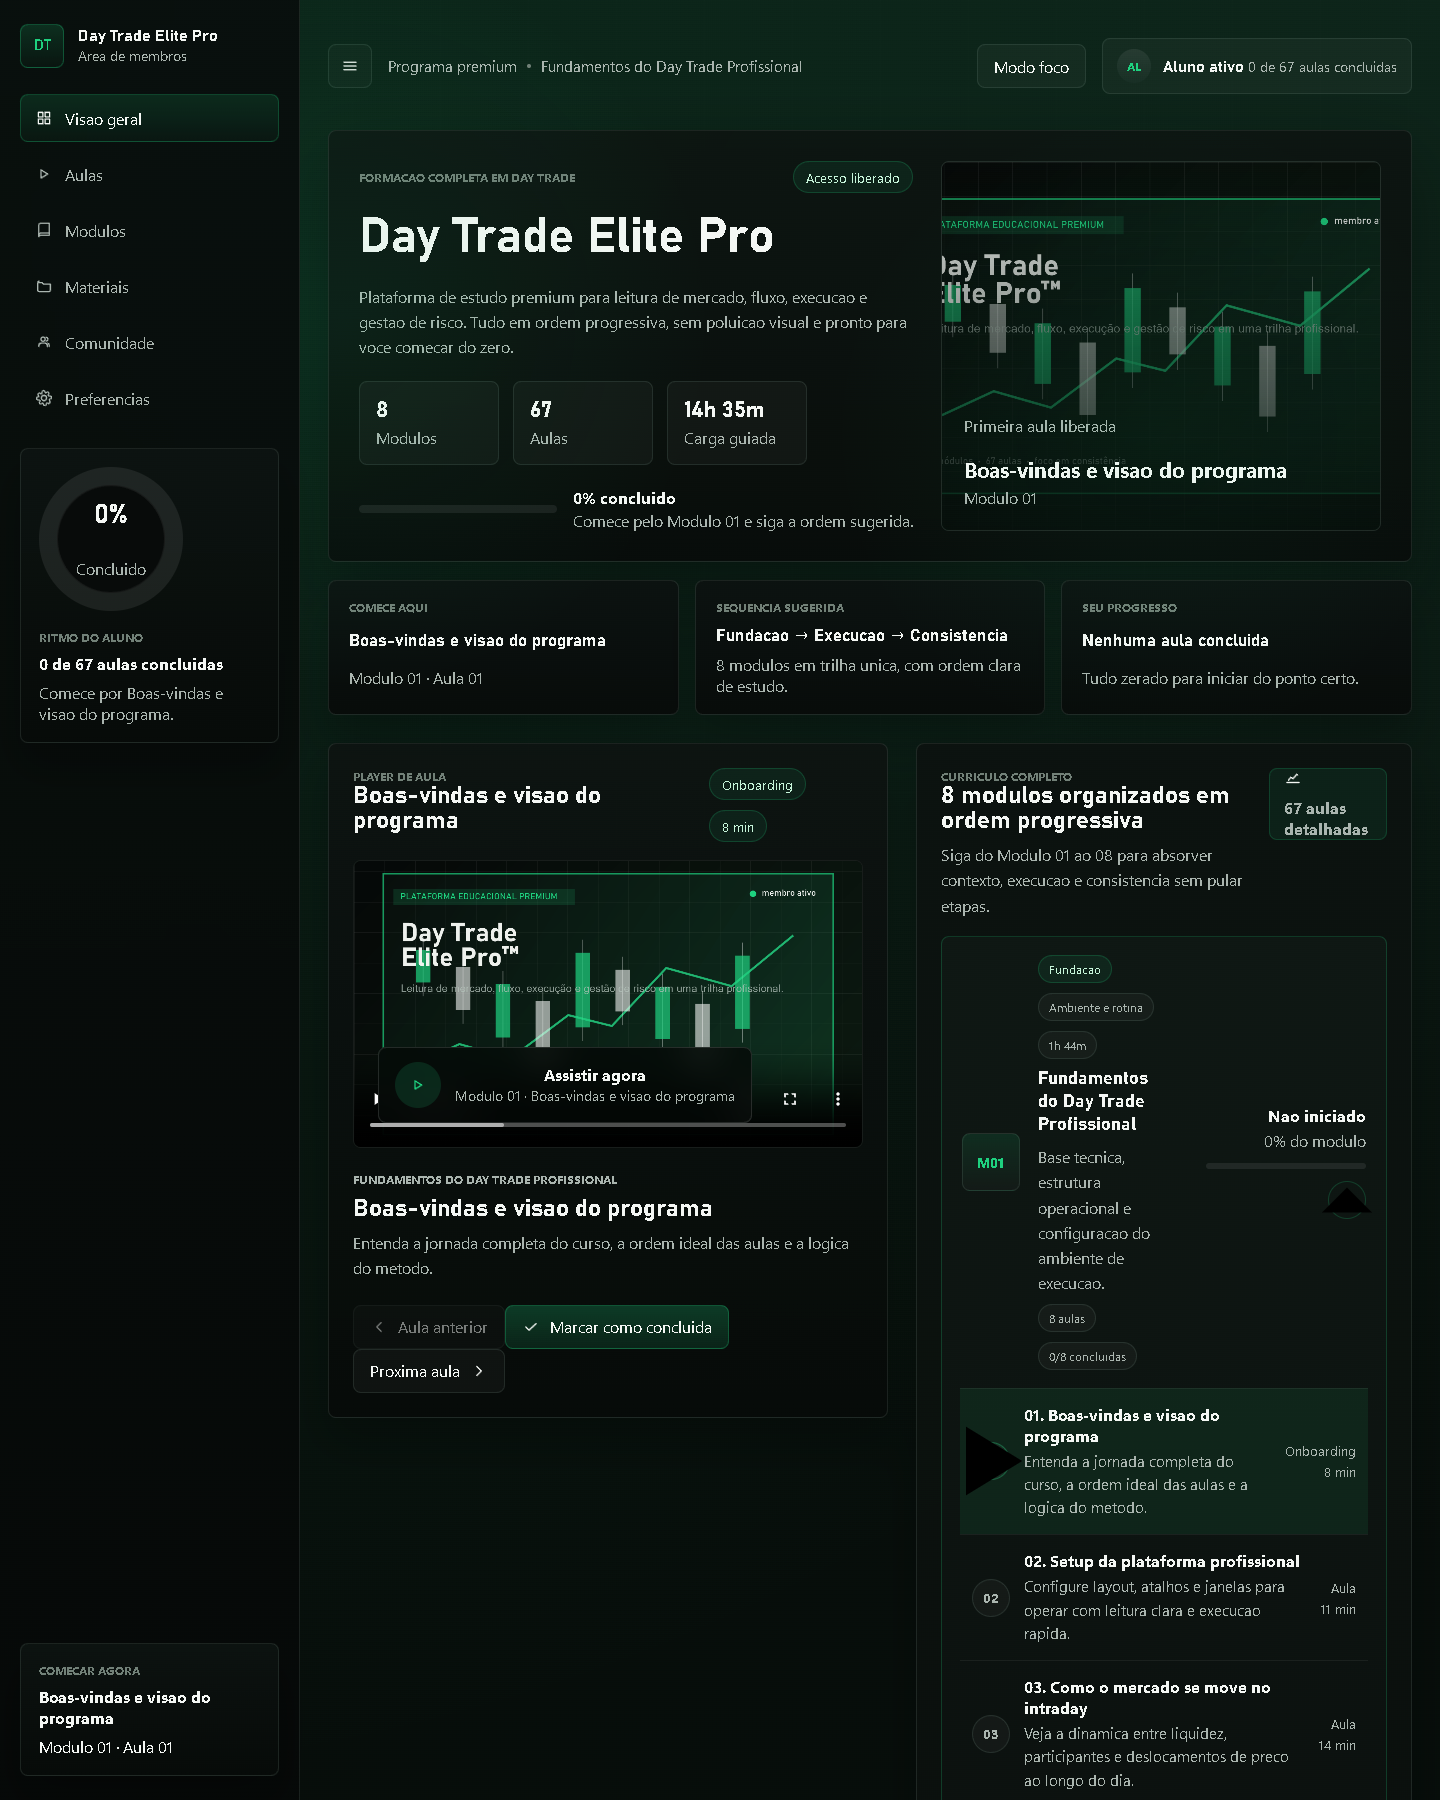
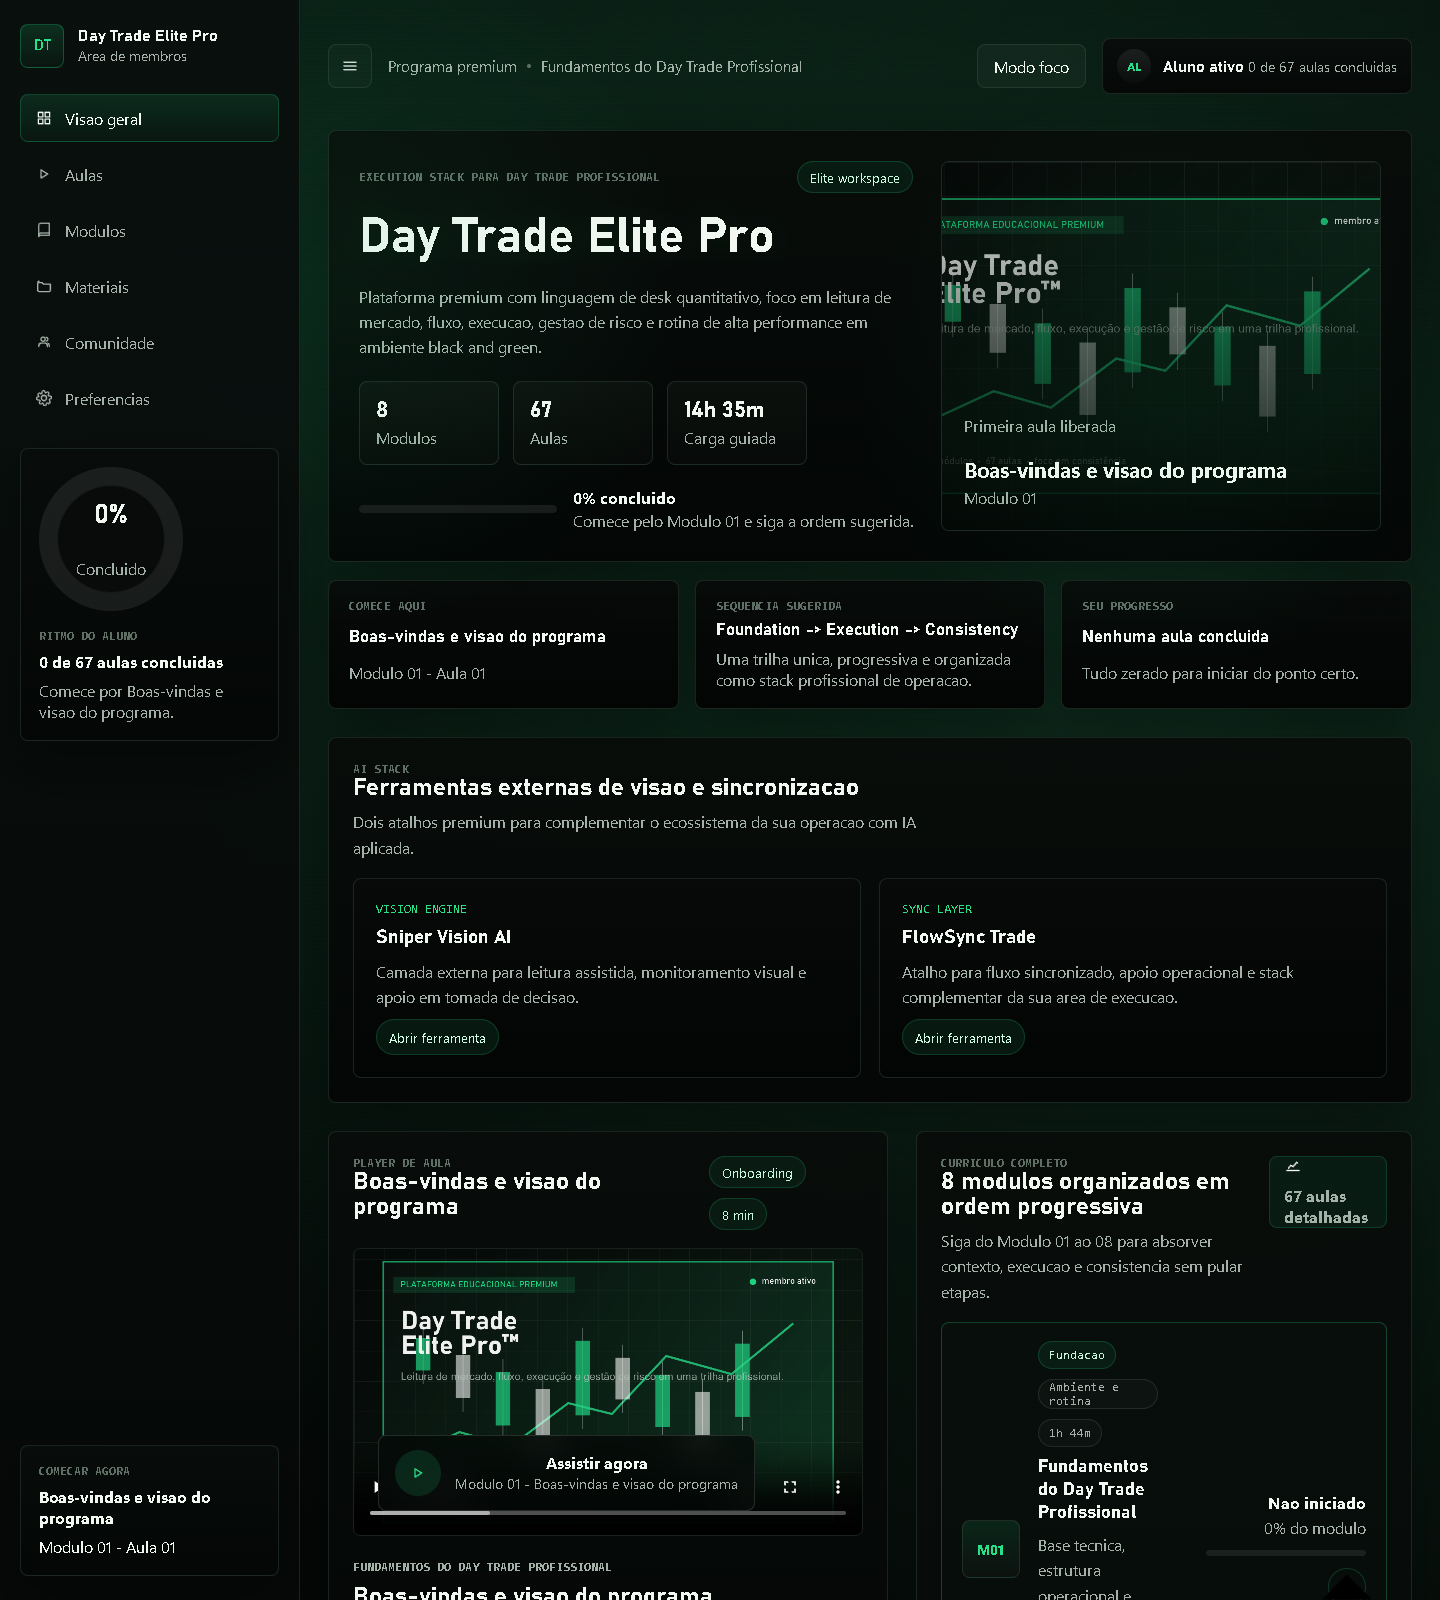
update

diff --git a/styles.css b/styles.css
@@ -1,21 +1,21 @@
 :root {
-  --bg-primary: #050807;
-  --bg-secondary: #08110d;
-  --bg-tertiary: #101915;
-  --panel: rgba(10, 15, 13, 0.88);
-  --panel-strong: rgba(12, 18, 16, 0.95);
+  --bg-primary: #020303;
+  --bg-secondary: #050907;
+  --bg-tertiary: #0b120f;
+  --panel: rgba(6, 9, 8, 0.92);
+  --panel-strong: rgba(8, 12, 10, 0.98);
   --panel-soft: rgba(255, 255, 255, 0.03);
-  --line: rgba(135, 164, 149, 0.16);
-  --line-strong: rgba(135, 164, 149, 0.28);
-  --text-primary: #f4f7f4;
-  --text-secondary: #aab5af;
-  --text-muted: #728178;
-  --green: #1ed17f;
-  --green-strong: #0eba67;
-  --green-soft: rgba(30, 209, 127, 0.12);
-  --green-soft-strong: rgba(30, 209, 127, 0.2);
-  --shadow-soft: 0 28px 70px rgba(0, 0, 0, 0.34);
-  --shadow-card: 0 24px 44px rgba(0, 0, 0, 0.24);
+  --line: rgba(66, 92, 79, 0.34);
+  --line-strong: rgba(73, 160, 118, 0.34);
+  --text-primary: #f2f7f2;
+  --text-secondary: #a3b1a8;
+  --text-muted: #5f6f66;
+  --green: #29e08a;
+  --green-strong: #15c774;
+  --green-soft: rgba(41, 224, 138, 0.12);
+  --green-soft-strong: rgba(41, 224, 138, 0.24);
+  --shadow-soft: 0 32px 90px rgba(0, 0, 0, 0.46);
+  --shadow-card: 0 26px 56px rgba(0, 0, 0, 0.34);
   --radius-sm: 8px;
   --radius-md: 8px;
   --radius-lg: 8px;
@@ -38,10 +38,10 @@ body {
   min-height: 100vh;
   color: var(--text-primary);
   background:
-    radial-gradient(circle at top left, rgba(30, 209, 127, 0.11), transparent 28%),
-    radial-gradient(circle at top right, rgba(15, 39, 28, 0.72), transparent 24%),
-    linear-gradient(180deg, rgba(8, 16, 12, 0.96), rgba(4, 7, 6, 0.98)),
-    linear-gradient(135deg, #07110d 0%, #050807 54%, #0c1611 100%);
+    radial-gradient(circle at top left, rgba(41, 224, 138, 0.12), transparent 22%),
+    radial-gradient(circle at 82% 10%, rgba(23, 78, 52, 0.5), transparent 20%),
+    linear-gradient(180deg, rgba(4, 7, 6, 0.98), rgba(2, 4, 3, 1)),
+    linear-gradient(135deg, #020303 0%, #040705 52%, #07100c 100%);
   font-family: Aptos, "Segoe UI Variable Text", "Segoe UI", sans-serif;
 }
 
@@ -160,6 +160,15 @@ a {
   letter-spacing: 0;
 }
 
+.sidebar-card-label,
+.section-label,
+.eyebrow,
+.ai-tool-label,
+.module-tag,
+.module-pill {
+  font-family: Consolas, "Cascadia Code", "Aptos Mono", monospace;
+}
+
 .brand-copy span,
 .profile-copy span {
   color: var(--text-secondary);
@@ -225,11 +234,12 @@ a {
 .player-panel,
 .curriculum-panel,
 .support-panel,
-.overview-card {
+.overview-card,
+.ai-stack-band {
   border: 1px solid var(--line);
   border-radius: var(--radius-lg);
   background:
-    linear-gradient(180deg, rgba(13, 19, 17, 0.94), rgba(7, 11, 9, 0.98));
+    linear-gradient(180deg, rgba(8, 12, 10, 0.98), rgba(4, 7, 6, 1));
   box-shadow: var(--shadow-card);
 }
 
@@ -309,6 +319,7 @@ a {
 .topbar,
 .hero-band,
 .overview-strip,
+.ai-stack-band,
 .workspace-grid,
 .support-grid {
   opacity: 0;
@@ -325,6 +336,10 @@ a {
 
 .workspace-grid {
   animation-delay: 240ms;
+}
+
+.ai-stack-band {
+  animation-delay: 210ms;
 }
 
 .support-grid {
@@ -439,7 +454,7 @@ a {
   padding: 10px 14px;
   border: 1px solid var(--line);
   border-radius: var(--radius-sm);
-  background: rgba(255, 255, 255, 0.03);
+  background: linear-gradient(180deg, rgba(9, 13, 11, 0.96), rgba(5, 7, 6, 0.98));
 }
 
 .profile-avatar {
@@ -463,8 +478,8 @@ a {
   border: 1px solid var(--line);
   border-radius: var(--radius-lg);
   background:
-    linear-gradient(180deg, rgba(13, 20, 17, 0.9), rgba(8, 12, 10, 0.96)),
-    linear-gradient(120deg, rgba(30, 209, 127, 0.08), transparent 42%);
+    linear-gradient(180deg, rgba(8, 12, 10, 0.98), rgba(3, 6, 5, 1)),
+    linear-gradient(120deg, rgba(41, 224, 138, 0.08), transparent 42%);
   box-shadow: var(--shadow-soft);
 }
 
@@ -503,6 +518,7 @@ a {
 .hero-copy h1 {
   font-size: clamp(2.5rem, 3.4vw, 4.2rem);
   line-height: 0.95;
+  text-shadow: 0 0 24px rgba(41, 224, 138, 0.06);
 }
 
 .hero-copy p,
@@ -525,7 +541,7 @@ a {
   padding: 16px;
   border: 1px solid var(--line);
   border-radius: var(--radius-sm);
-  background: rgba(255, 255, 255, 0.03);
+  background: linear-gradient(180deg, rgba(12, 17, 14, 0.98), rgba(7, 10, 8, 0.98));
 }
 
 .hero-stat strong {
@@ -605,8 +621,8 @@ a {
   position: absolute;
   inset: 0;
   background:
-    linear-gradient(180deg, rgba(5, 8, 7, 0.04), rgba(5, 8, 7, 0.84)),
-    linear-gradient(0deg, rgba(30, 209, 127, 0.08), transparent 46%);
+    linear-gradient(180deg, rgba(2, 4, 3, 0.04), rgba(2, 4, 3, 0.9)),
+    linear-gradient(0deg, rgba(41, 224, 138, 0.08), transparent 46%);
 }
 
 .hero-visual-overlay {
@@ -636,11 +652,77 @@ a {
   gap: 8px;
   padding: 18px 20px;
   background:
-    linear-gradient(180deg, rgba(12, 18, 16, 0.96), rgba(8, 11, 10, 0.98));
+    linear-gradient(180deg, rgba(7, 10, 9, 0.98), rgba(3, 5, 4, 1));
 }
 
 .overview-card strong {
   font-size: 1.05rem;
+}
+
+.ai-stack-band {
+  margin-bottom: 28px;
+  padding: 24px;
+}
+
+.ai-stack-header {
+  margin-bottom: 18px;
+}
+
+.ai-tool-grid {
+  display: grid;
+  grid-template-columns: repeat(2, minmax(0, 1fr));
+  gap: 18px;
+}
+
+.ai-tool-card {
+  display: grid;
+  gap: 10px;
+  padding: 22px;
+  border: 1px solid var(--line);
+  border-radius: var(--radius-lg);
+  background:
+    linear-gradient(180deg, rgba(7, 10, 9, 0.98), rgba(3, 5, 4, 1));
+  transition:
+    border-color var(--transition),
+    transform var(--transition),
+    box-shadow var(--transition);
+}
+
+.ai-tool-card:hover,
+.ai-tool-card:focus-visible {
+  transform: translateY(-2px);
+  border-color: rgba(41, 224, 138, 0.32);
+  box-shadow: 0 20px 48px rgba(0, 0, 0, 0.34);
+}
+
+.ai-tool-card strong {
+  font-family: Bahnschrift, "Aptos Display", "Segoe UI Variable Display", sans-serif;
+  font-size: 1.2rem;
+}
+
+.ai-tool-card p {
+  margin: 0;
+  color: var(--text-secondary);
+  line-height: 1.58;
+}
+
+.ai-tool-label {
+  color: var(--green);
+  font-size: 0.8rem;
+  text-transform: uppercase;
+}
+
+.ai-tool-link {
+  display: inline-flex;
+  align-items: center;
+  min-height: 36px;
+  width: fit-content;
+  padding: 0 12px;
+  border: 1px solid rgba(41, 224, 138, 0.18);
+  border-radius: 999px;
+  background: rgba(41, 224, 138, 0.08);
+  color: #cff9e3;
+  font-size: 0.84rem;
 }
 
 .workspace-grid {
@@ -659,7 +741,7 @@ a {
 .curriculum-panel,
 .support-panel {
   background:
-    linear-gradient(180deg, rgba(12, 18, 15, 0.96), rgba(8, 12, 10, 0.98));
+    linear-gradient(180deg, rgba(8, 12, 10, 0.98), rgba(3, 6, 5, 1));
 }
 
 .support-grid {
@@ -812,7 +894,7 @@ a {
   border: 1px solid var(--line);
   border-radius: var(--radius-lg);
   background:
-    linear-gradient(180deg, rgba(14, 20, 18, 0.96), rgba(9, 12, 11, 0.98));
+    linear-gradient(180deg, rgba(8, 12, 10, 0.98), rgba(4, 7, 6, 1));
   overflow: hidden;
   transition:
     border-color var(--transition),
@@ -825,9 +907,9 @@ a {
 }
 
 .module-item.is-open {
-  border-color: rgba(30, 209, 127, 0.22);
+  border-color: rgba(41, 224, 138, 0.26);
   background:
-    linear-gradient(180deg, rgba(15, 24, 20, 0.98), rgba(10, 13, 12, 0.98));
+    linear-gradient(180deg, rgba(8, 14, 11, 1), rgba(4, 8, 6, 1));
 }
 
 .module-header {
@@ -881,7 +963,7 @@ a {
   align-items: center;
   border: 1px solid var(--line);
   color: var(--text-secondary);
-  background: rgba(255, 255, 255, 0.03);
+  background: rgba(255, 255, 255, 0.02);
 }
 
 .module-meta {
@@ -1052,6 +1134,7 @@ a {
 
 @media (max-width: 1240px) {
   .overview-strip,
+  .ai-tool-grid,
   .support-grid,
   .workspace-grid,
   .hero-band {

diff --git a/index.html b/index.html
@@ -156,14 +156,14 @@
         <section class="hero-band" id="heroBand">
           <div class="hero-copy">
             <div class="hero-kicker">
-              <span class="eyebrow">Formacao completa em day trade</span>
-              <span class="status-chip">Acesso liberado</span>
+              <span class="eyebrow">Execution stack para day trade profissional</span>
+              <span class="status-chip">Elite workspace</span>
             </div>
 
             <h1>Day Trade Elite Pro</h1>
             <p>
-              Plataforma de estudo premium para leitura de mercado, fluxo, execucao e gestao de risco.
-              Tudo em ordem progressiva, sem poluicao visual e pronto para voce comecar do zero.
+              Plataforma premium com linguagem de desk quantitativo, foco em leitura de mercado, fluxo,
+              execucao, gestao de risco e rotina de alta performance em ambiente black and green.
             </p>
 
             <div class="hero-stats" aria-label="Resumo do curso">
@@ -210,14 +210,40 @@
           </article>
           <article class="overview-card">
             <p class="section-label">Sequencia sugerida</p>
-            <strong>Fundacao -> Execucao -> Consistencia</strong>
-            <span>8 modulos em trilha unica, com ordem clara de estudo.</span>
+            <strong>Foundation -> Execution -> Consistency</strong>
+            <span>Uma trilha unica, progressiva e organizada como stack profissional de operacao.</span>
           </article>
           <article class="overview-card">
             <p class="section-label">Seu progresso</p>
             <strong id="overviewProgressText">Nenhuma aula concluida</strong>
             <span id="overviewProgressMeta">Tudo zerado para iniciar do ponto certo.</span>
           </article>
+        </section>
+
+        <section class="ai-stack-band" id="ia-stack" aria-label="Ferramentas de inteligencia e automacao">
+          <div class="section-header ai-stack-header">
+            <div>
+              <p class="section-label">AI Stack</p>
+              <h2>Ferramentas externas de visao e sincronizacao</h2>
+              <p class="panel-intro">Dois atalhos premium para complementar o ecossistema da sua operacao com IA aplicada.</p>
+            </div>
+          </div>
+
+          <div class="ai-tool-grid">
+            <a class="ai-tool-card" href="https://snipervisionai.com/a/03" target="_blank" rel="noopener noreferrer">
+              <span class="ai-tool-label">Vision Engine</span>
+              <strong>Sniper Vision AI</strong>
+              <p>Camada externa para leitura assistida, monitoramento visual e apoio em tomada de decisao.</p>
+              <span class="ai-tool-link">Abrir ferramenta</span>
+            </a>
+
+            <a class="ai-tool-card" href="https://flowsynctrade.com/?FlowSync=04" target="_blank" rel="noopener noreferrer">
+              <span class="ai-tool-label">Sync Layer</span>
+              <strong>FlowSync Trade</strong>
+              <p>Atalho para fluxo sincronizado, apoio operacional e stack complementar da sua area de execucao.</p>
+              <span class="ai-tool-link">Abrir ferramenta</span>
+            </a>
+          </div>
         </section>
 
         <section class="workspace-grid">
